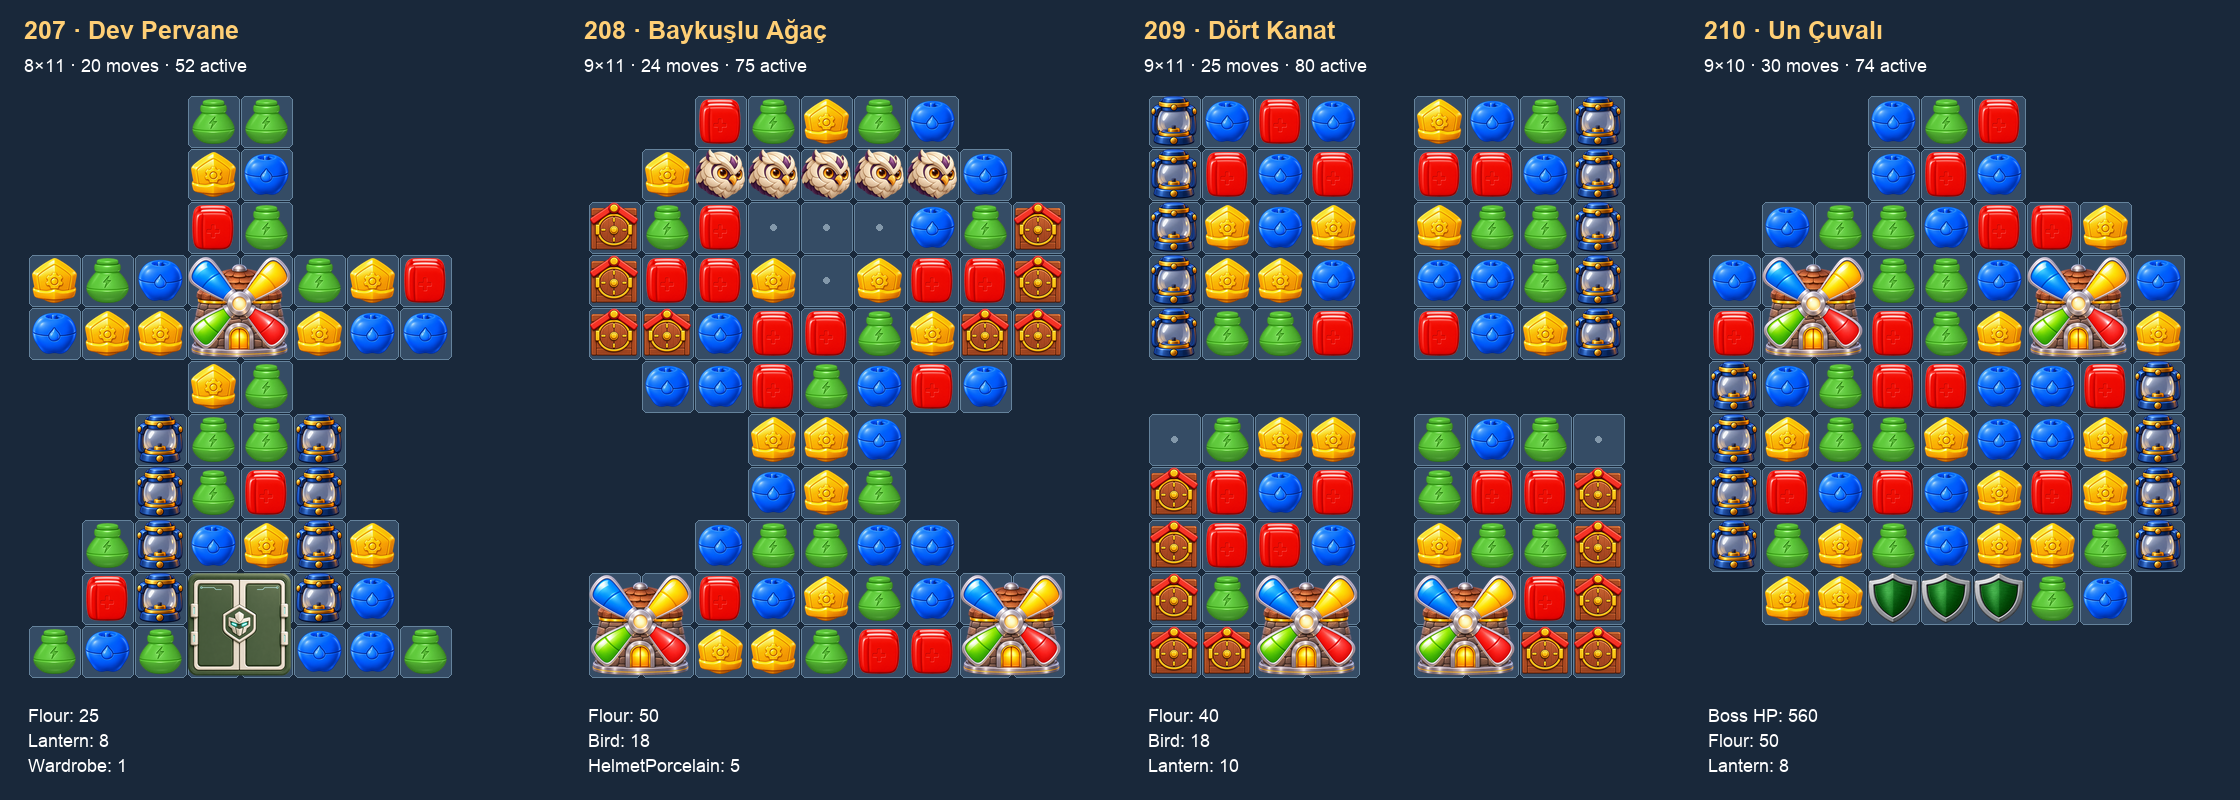
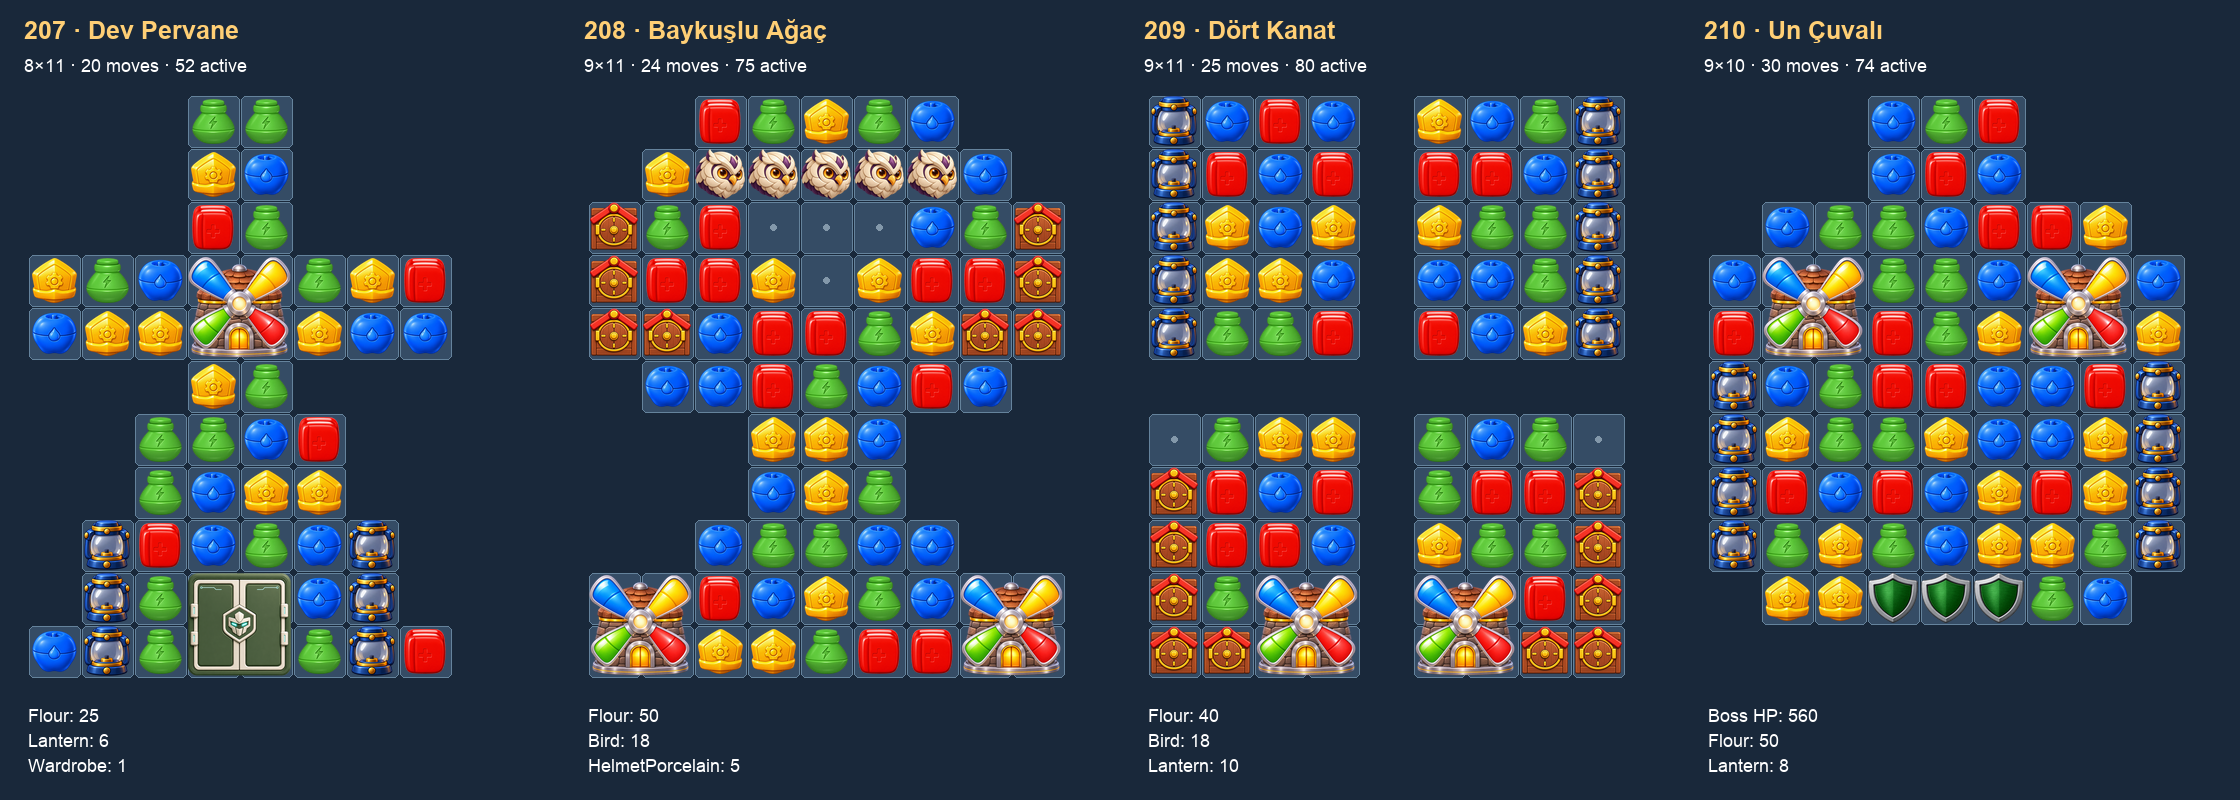
commit bug fixes

Changed region(s): [[0.0, 0.5, 0.2188, 0.8438]]

diff --git a/Assets/_Project/Scripts/Core/ObstacleLibrary.cs b/Assets/_Project/Scripts/Core/ObstacleLibrary.cs
@@ -25,6 +25,14 @@ public enum ObstacleDamageSourceRule
 [Serializable]
 public class StageRule
 {
+    /// Alan alan kopya (liste alanları da yeni liste). Eksik aşamayı son aşamayla doldurmak için.
+    public StageRule Copy()
+    {
+        var c = (StageRule)MemberwiseClone();
+        if (hitParticleSprites != null) c.hitParticleSprites = new System.Collections.Generic.List<Sprite>(hitParticleSprites);
+        return c;
+    }
+
     public Sprite sprite;
     public ObstacleDamageSourceRule damageRule = ObstacleDamageSourceRule.Any;
     public bool blocksCells = true;
@@ -288,8 +296,14 @@ public class ObstacleDef
 
         int required = Mathf.Max(1, hits);
 
+        // Eksik aşama boş varsayılanla DEĞİL, son tanımlı aşamanın kopyasıyla dolar. Varsayılan (allowDiagonal=false,
+        // behavior=OverTileBlocker) değirmende (4 vuruş / 1 aşama) ilk kanat kırılınca köşeyi çapraz kaymaya kapatıp
+        // altındaki sütunu kalıcı boş bırakıyordu (L207, 2026-11-02).
         while (stages.Count < required)
-            stages.Add(new StageRule());
+        {
+            var last = stages.Count > 0 ? stages[stages.Count - 1] : null;
+            stages.Add(last != null ? last.Copy() : new StageRule());
+        }
 
         while (stages.Count > required)
             stages.RemoveAt(stages.Count - 1);

diff --git a/Docs/LevelDesign/Batches/206-210-Windmill/design2.py b/Docs/LevelDesign/Batches/206-210-Windmill/design2.py
@@ -45,8 +45,9 @@ def lv(rows, **kw):
 def l207():
     # Dev Pervane (Normal): tahta dev bir yel değirmeni — artı kanatlar, gerçek değirmen göbekte (kanatları yalnız
     # special kırar). Gövdenin dış kenarlarında fener sütunları (kullanıcı: fener sütunda dizilince güzel), dipte kapı dolabı.
-    # v2.1: fenerler 2./5. sütundaydı → değirmen altındaki orta sütunları iki yandan kapatıp tek dar girişe bağlıyordu
-    # (kullanıcı 207'de kalmaması gereken boşluklar gördü). Dış kenara alındı: 2./5. sütun deliklerden düz dolar.
+    # (v2.2'de değirmen dibe indirilmişti; kullanıcı: "bu kurallar tüm seviyelerde... taş akışımız her zaman mükemmel
+    # olmalı" → kök neden motorda düzeltildi: değirmen 4 vuruş/1 aşama → kanat kırılınca boş varsayılan aşama
+    # allowDiagonal=false oluyordu. Tasarım v2.1'e döndü.)
     return lv(["...oo...",
                "...oo...",
                "...oo...",

diff --git a/Assets/_Project/Scripts/Grid/Board/Obstacles/ObstacleStateService.cs b/Assets/_Project/Scripts/Grid/Board/Obstacles/ObstacleStateService.cs
@@ -1101,7 +1101,9 @@ public class ObstacleStateService : ISimObstacleQuery
     public bool TakesPerCellHits(int x, int y)
     {
         var id = GetObstacleIdAt(x, y);
-        return id == ObstacleId.Magnet || IsWallFamily(id) || id == ObstacleId.Hamster;
+        // Yel değirmeni duvar ailesinde (kanat başına aşama) ama TEK engeldir: Pulse/LineV-H/PatchBot/joker kaç hücresine
+        // değerse değsin bir etki = bir kanat (kullanıcı 2026-11-02). Line+Pulse'un her ışını ayrı etki → ayrı kanat.
+        return id == ObstacleId.Magnet || (IsWallFamily(id) && id != ObstacleId.Windmill) || id == ObstacleId.Hamster;
     }
 
     public bool IsMagnetEndpoint(int x, int y)

diff --git a/Docs/LevelDesign/Batches/206-210-Windmill/README-207-210.md b/Docs/LevelDesign/Batches/206-210-Windmill/README-207-210.md
@@ -6,10 +6,10 @@ Yazıcı `design2.py` (check | write, ASCII tahta). Yedek: `before/`. Önizleme 
 
 | Lv | Ad | Tür | Siluet / fikir | Hamle | Hedef |
 |---|---|---|---|---|---|
-| 207 | Dev Pervane / Giant Sails | Normal | Tahta dev yel değirmeni: artı kanatlar, gerçek değirmen göbekte; gövdenin dış kenarlarında fener sütunları, dipte kapı dolabı | 20 | Un 25 · Fener 6 · Dolap 1 |
+| 207 | Dev Pervane / Giant Sails | Normal | Tahta dev yel değirmeni: artı kanatlar, göbek boş (mil deliği), gerçek değirmen kulenin dibinde; kule kenarlarında fener sütunları | 20 | Un 25 · Fener 6 |
 | 208 | Baykuşlu Ağaç / Owl Tree | Normal | Taç + dar gövde + kökler; dalda 5 baykuş, taç kenarlarında L/ters L kuş evleri, kök köşelerinde değirmen | 24 | Un 50 · Kuş 18 · Baykuş 5 |
 | 209 | Dört Kanat / Four Sails | Super Hard | Delikten artı 4 oda; üst odaların dış kenarında fener sütunları, alt odaların dış köşesinde L kuş evleri, iç dipte değirmenler | 25 | Un 40 · Kuş 18 · Fener 10 |
-| 210 | Un Çuvalı / Flour Sack | Boss | Bağlı ağızlı çuval; omuzlarda değirmen, iki yan dikişte fener sütunları, dipte kalkan (yardımcı) | 30 | Boss 560 · Un 50 · Fener 8 |
+| 210 | Un Çuvalı / Flour Sack | Boss | Bağlı ağızlı çuval; dipte değirmenler, iki yan dikişte fener sütunları, dipte kalkan (yardımcı) | 30 | Boss 560 · Un 50 · Fener 8 |
 
 - 209 kısıtı: alt odanın üst satırı yalnız delik satırından düz beslenir → üst odalara sabit engel konmaz (yalnız fener).
 - Hareketli engel altındaki açılış cepleri pinli (208: 4, 209: 2). Boss 200 ayarları; fırlatmada fener yok.
@@ -18,3 +18,5 @@ Yazıcı `design2.py` (check | write, ASCII tahta). Yedek: `before/`. Önizleme 
 - **Oynanmadı.** Statik kontrol geçti; Unity Play/build/sim yok, denge ölçülmedi.
 - 207 v2.1: kullanıcı 207'de kalmaması gereken boşluklar gördü. Fener sütunları 2./5. sütundaydı; değirmen altındaki orta
   sütunları iki yandan kapatıp (fener köşeden çapraz geçirmez) tek dar girişe bağlıyordu → dış kenara (1./6.) alındı.
+- v2.2 geri alındı (kullanıcı: akış motorda mükemmel olmalı). Kök neden değirmen aşama tablosuydu (4 vuruş/1 aşama →
+  kanat kırılınca allowDiagonal=false); kütüphane + ObstacleLibrary.EnsureStageSlots düzeltildi. 207/210 v2.1 düzeninde.

diff --git a/Docs/LevelDesign/Design-Feedback.md b/Docs/LevelDesign/Design-Feedback.md
@@ -377,3 +377,8 @@ Ek (aynı gün): “bazen dikdörtgen şekilde daha iyi 2x3, 2x4 yatayda ya da s
   değirmen + üst bant + alt blok). Ders: her seviyeye ayrı siluet + ayrı oyun fikri; aynı iskeleti engel değiştirerek tekrarlama.
 - 2026-11-01 · "fenerlerin hepsinin bir yerde olduğu senaryo güzel olmuyor fenerler sütunda dizildiğinde güzel oluyor".
 - 2026-11-01 · "kuş evi için lütfen kenarları kullan L ve ters L planlayabilirsin böylelikle iyi bir hedef olur".
+- 2026-11-02 · 207 oyunu: "bir linev patlatıyorum tam alt koridordan yukarı yine boşluklar oluşuyor" (+ ekran). İlk tepki
+  (değirmeni tasarımda dibe indirmek) REDDEDİLDİ: "hayır bu kurallar tüm seviyelerde bizim taş akışımızı ilgilendiren kurallar,
+  taş akışımız her zaman mükemmel olmalı". Ders: akış boşluğu = motor hatası; tasarımla etrafından dolanma. Kök: değirmen
+  4 vuruş/1 aşama → EnsureStageSlots boş varsayılan aşama (allowDiagonal=false) ekliyordu; ilk kanat kırılınca köşe çapraz
+  kaymaya kapanıyordu. Kütüphanede 4 aşama + motor eksik aşamayı son aşamayla doldurur. 207/210 v2.1'e döndü.
